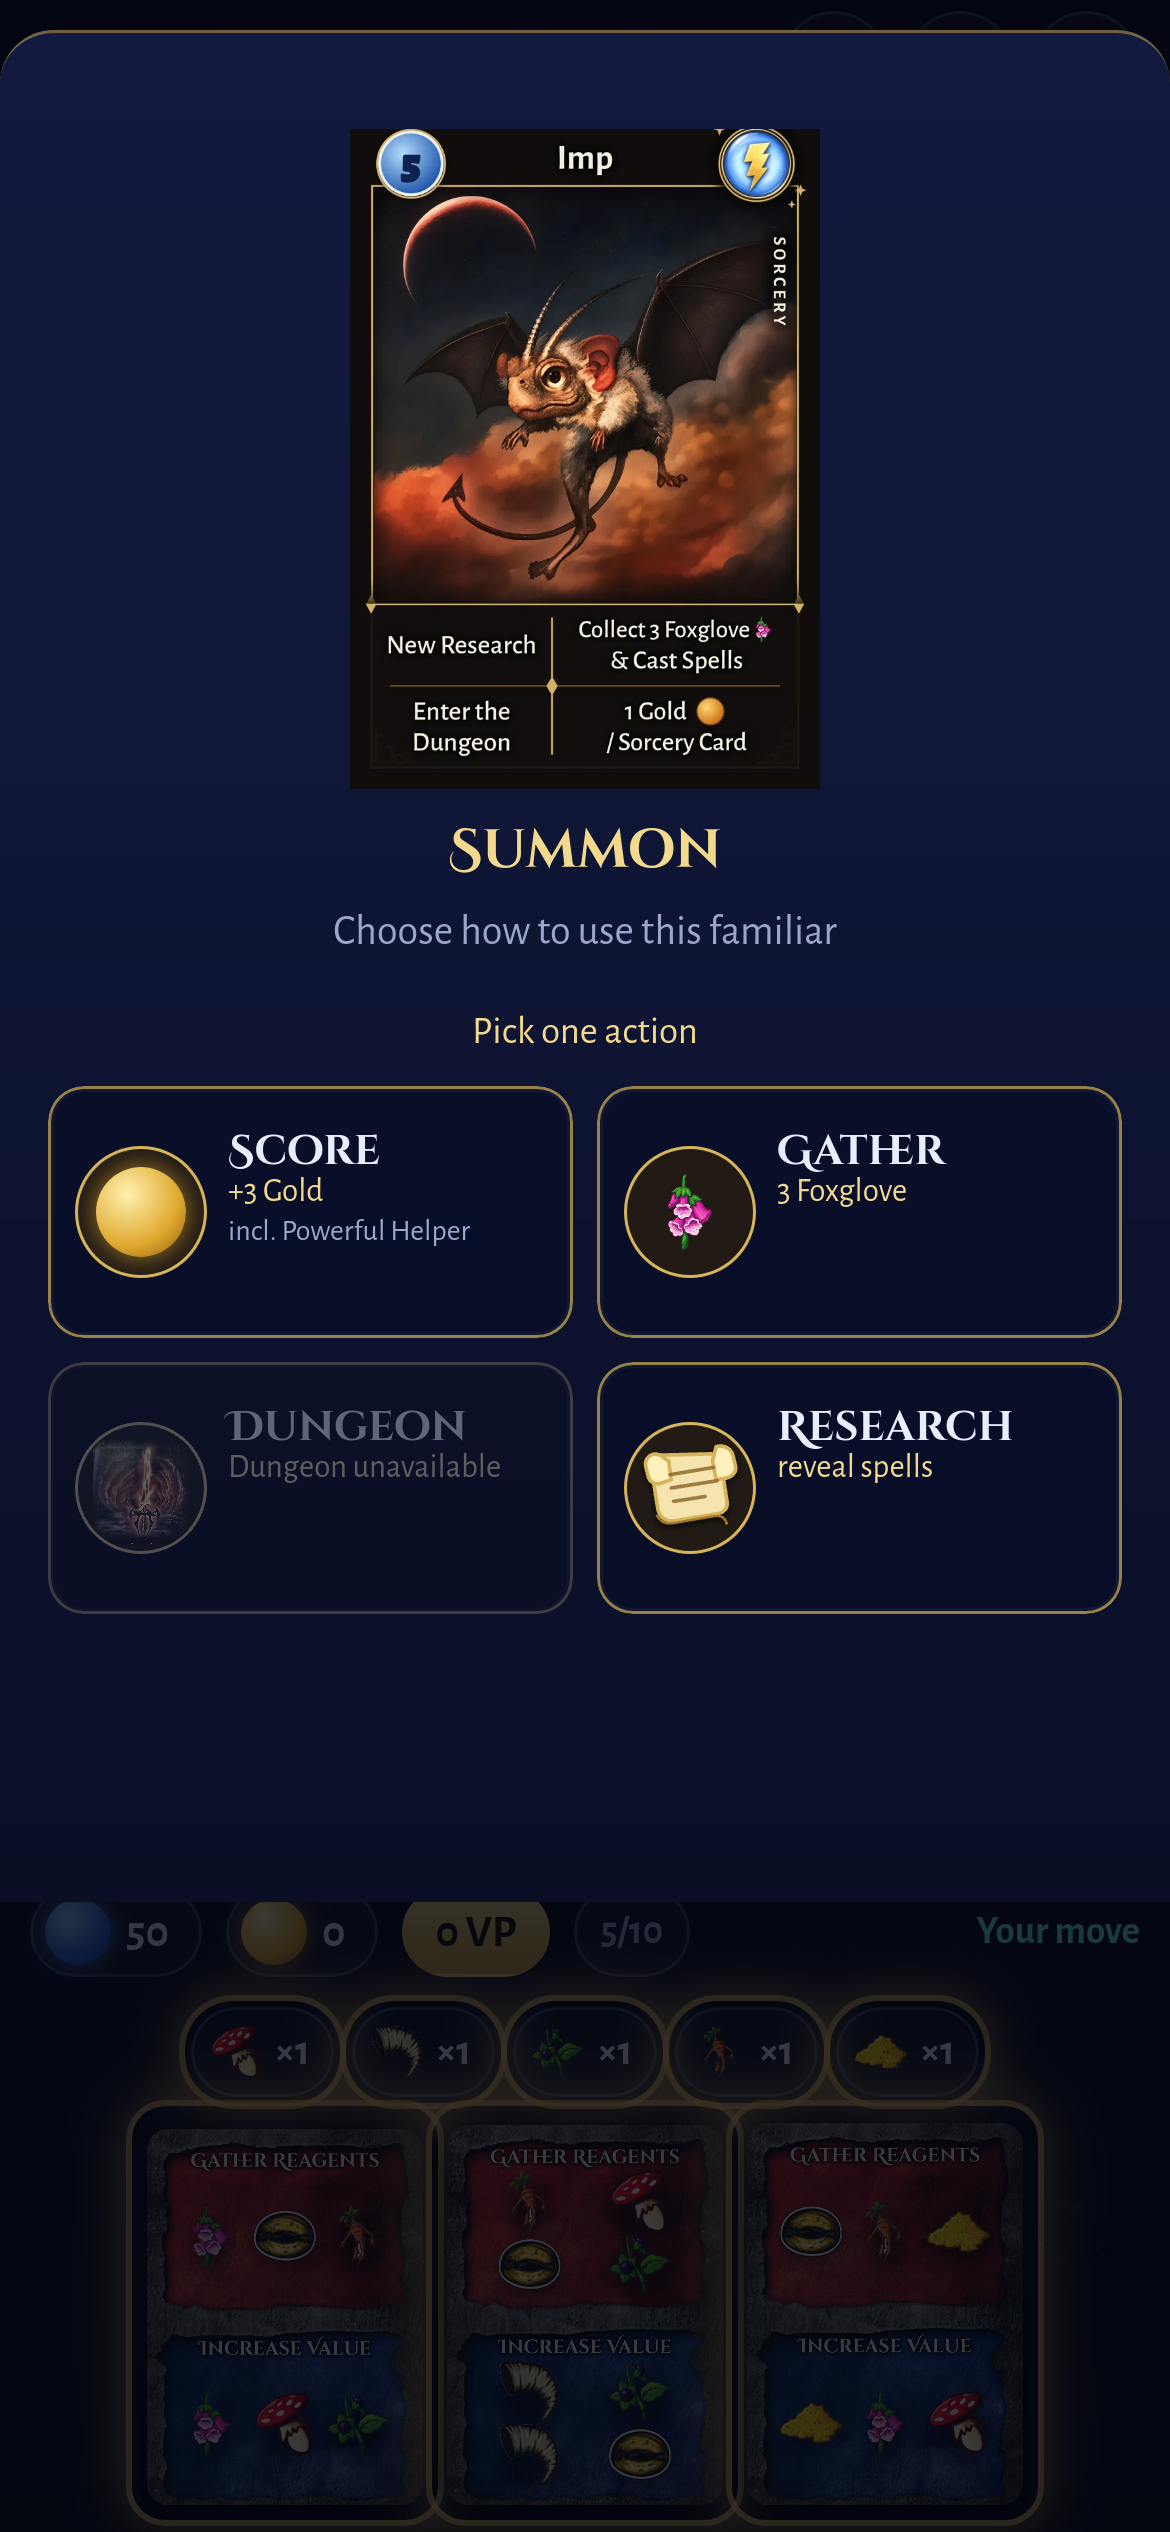
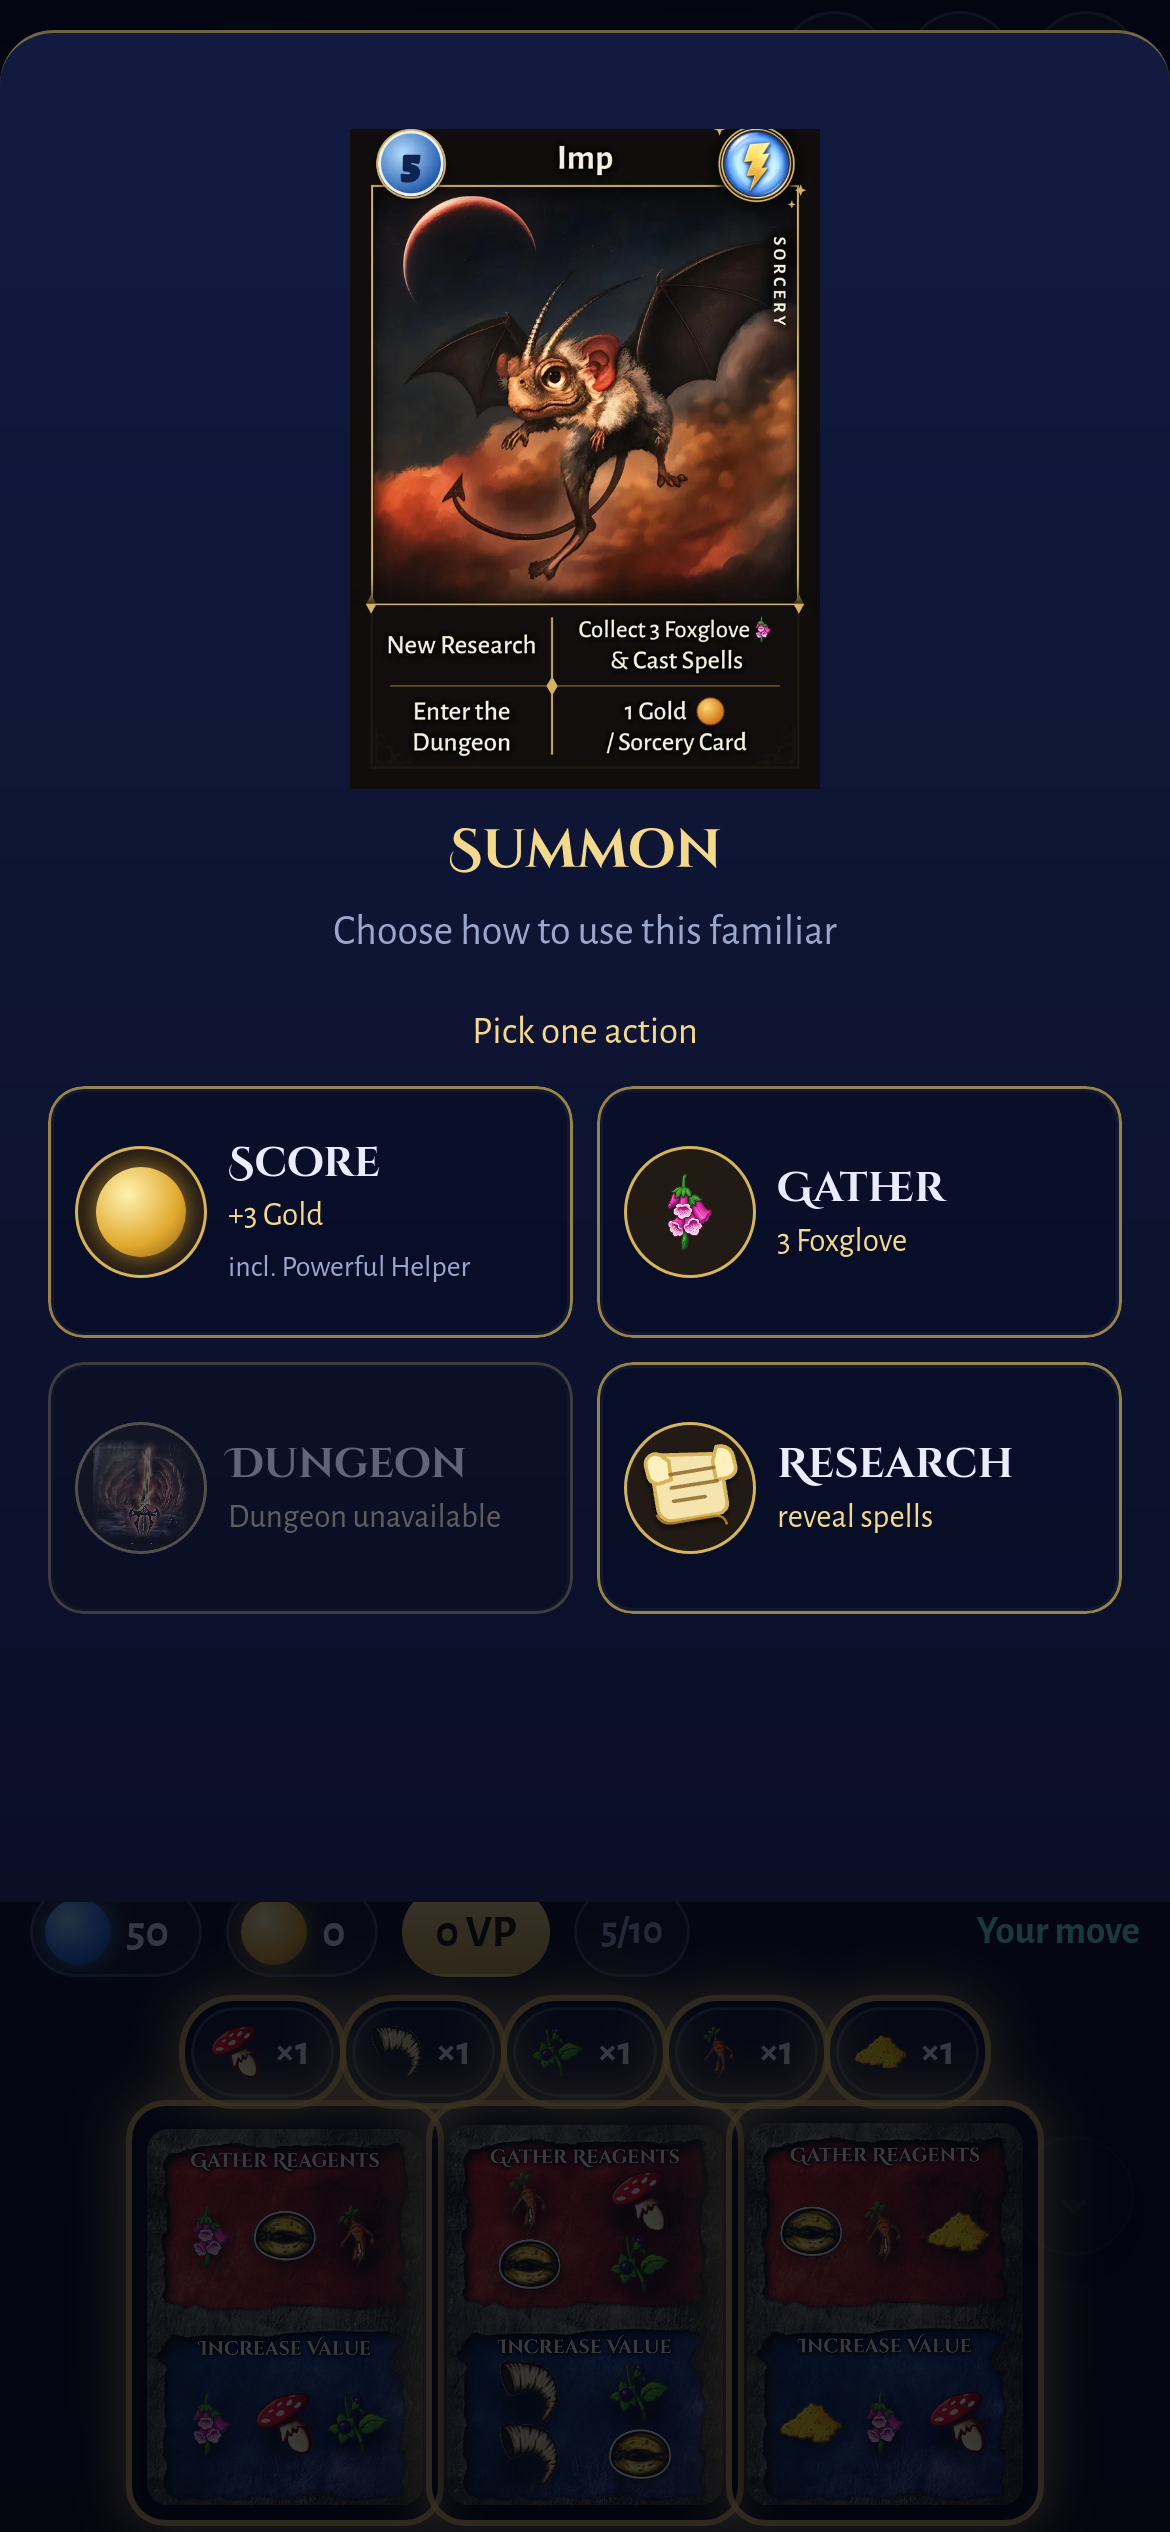
Center familiar action tile text

diff --git a/app/css/app.css b/app/css/app.css
@@ -555,8 +555,8 @@ input[type=range].slider::-moz-range-thumb { width: 28px; height: 28px; border-r
 .familiar-action-subtitle { margin-top: -2px; }
 .familiar-action-pick { color: var(--gold-hi); font-size: 13px; margin-top: 1px; }
 .familiar-action-grid { display: grid; grid-template-columns: repeat(2, minmax(0, 1fr)); gap: 8px; width: 100%; margin-top: 2px; }
-.familiar-action-tile { min-height: 84px; padding: 7px 8px; display: grid; grid-template-columns: 44px 1fr; grid-template-rows: auto auto;
-  column-gap: 7px; align-items: center; text-align: left; border: 1px solid rgba(214, 180, 90, .7); border-radius: 12px;
+.familiar-action-tile { min-height: 84px; padding: 7px 8px; display: flex; flex-direction: row; gap: 7px; align-items: center;
+  text-align: left; border: 1px solid rgba(214, 180, 90, .7); border-radius: 12px;
   background: rgba(8, 13, 38, .78); color: var(--ink); box-shadow: inset 0 0 0 1px rgba(255, 255, 255, .04); }
 .familiar-action-tile:active { transform: scale(.98); background: rgba(90, 67, 18, .5); }
 .familiar-action-tile.disabled { opacity: .38; filter: grayscale(.5); }
@@ -571,7 +571,7 @@ input[type=range].slider::-moz-range-thumb { width: 28px; height: 28px; border-r
 .familiar-action-glyph { line-height: 1; }
 .familiar-action-title { font-family: var(--display); font-size: 14px; font-weight: 700; line-height: 1.05; }
 .familiar-action-detail { color: var(--gold-hi); font-size: 11px; line-height: 1.1; white-space: nowrap; }
-.familiar-action-copy { min-width: 0; display: flex; flex-direction: column; justify-content: center; align-self: stretch; }
+.familiar-action-copy { min-width: 0; display: flex; flex-direction: column; justify-content: center; gap: 4px; }
 .familiar-action-note { color: var(--muted); font-size: 10px; line-height: 1.1; margin-top: 2px; white-space: nowrap; }
 .familiar-action-cancel { margin-top: 0; }
 .stepper { display: flex; align-items: center; gap: 18px; }

diff --git a/tests/e2e/ongoing-audit.spec.js b/tests/e2e/ongoing-audit.spec.js
@@ -32,6 +32,12 @@ test('Powerful Helper: summon score sub-label shows helper bonus', async ({ page
   await expect(page.getByTestId('summon-score')).toBeVisible();
   await expect(page.getByTestId('summon-dungeon')).toBeDisabled();
   await expect(page.getByTestId('summon-dungeon')).toContainText('Dungeon unavailable');
+  const centerDelta = await page.getByTestId('summon-score').evaluate((el) => {
+    const icon = el.querySelector('.familiar-action-icon').getBoundingClientRect();
+    const copy = el.querySelector('.familiar-action-copy').getBoundingClientRect();
+    return Math.abs((icon.top + icon.height / 2) - (copy.top + copy.height / 2));
+  });
+  expect(centerDelta).toBeLessThanOrEqual(2);
   await page.getByTestId('summon-use').screenshot({ path: 'docs/screenshots/familiar-actions-summon-disabled-dpr3.png' });
   const sub = await page.getByTestId('summon-score').textContent();
   expect(sub).toMatch(/Powerful Helper/);
